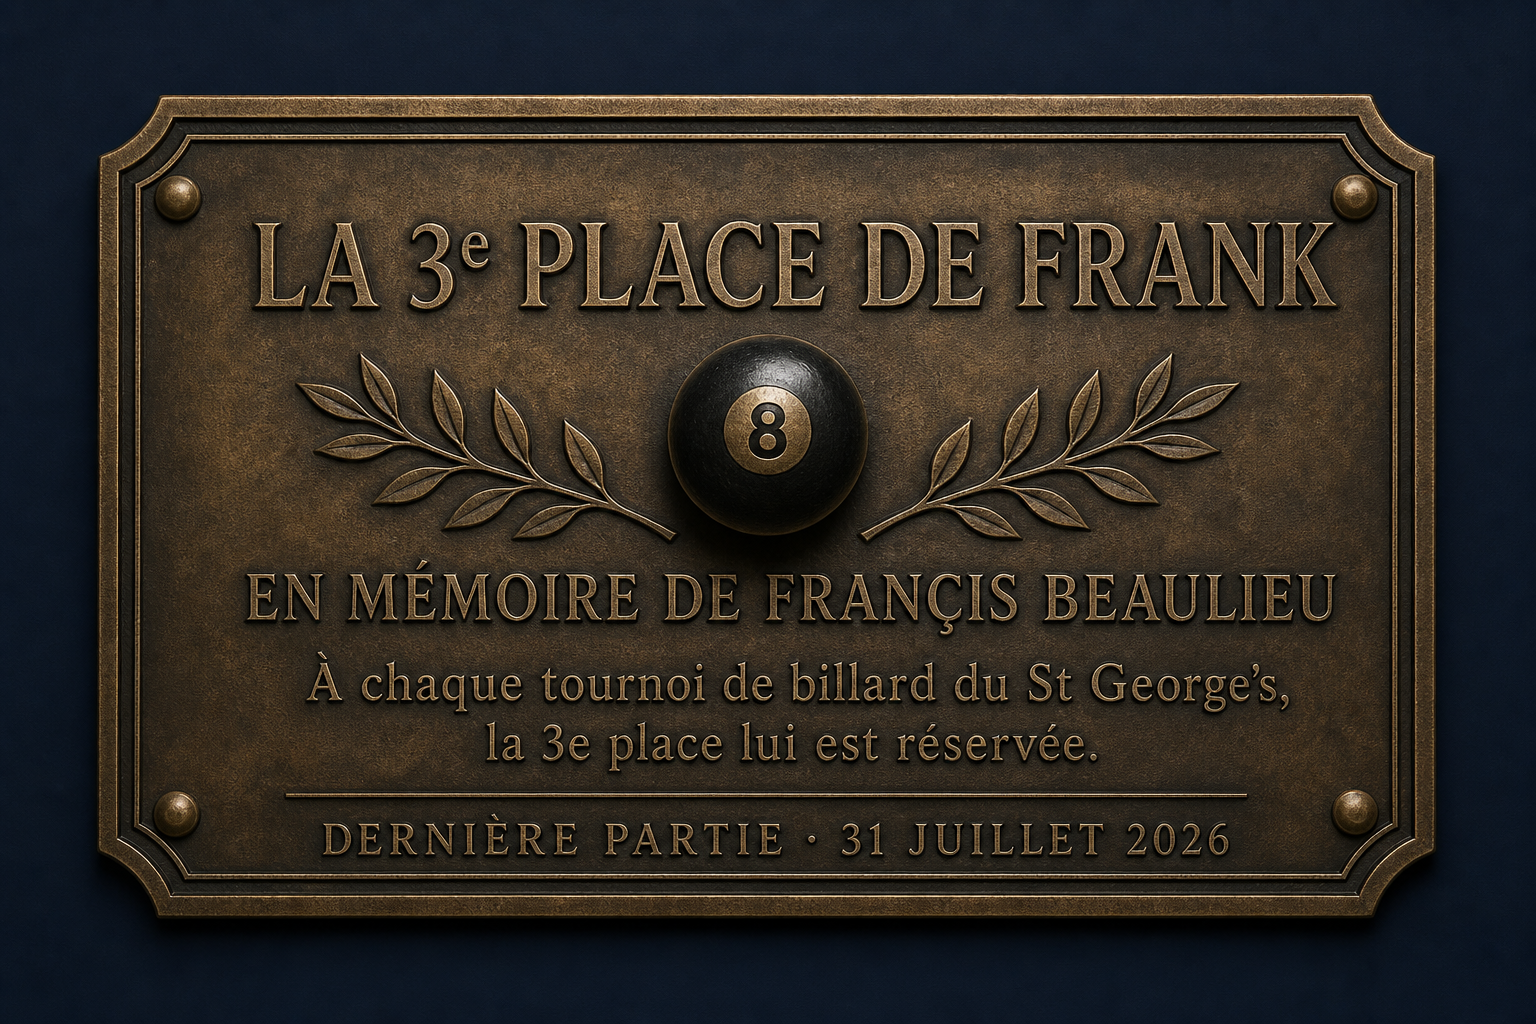
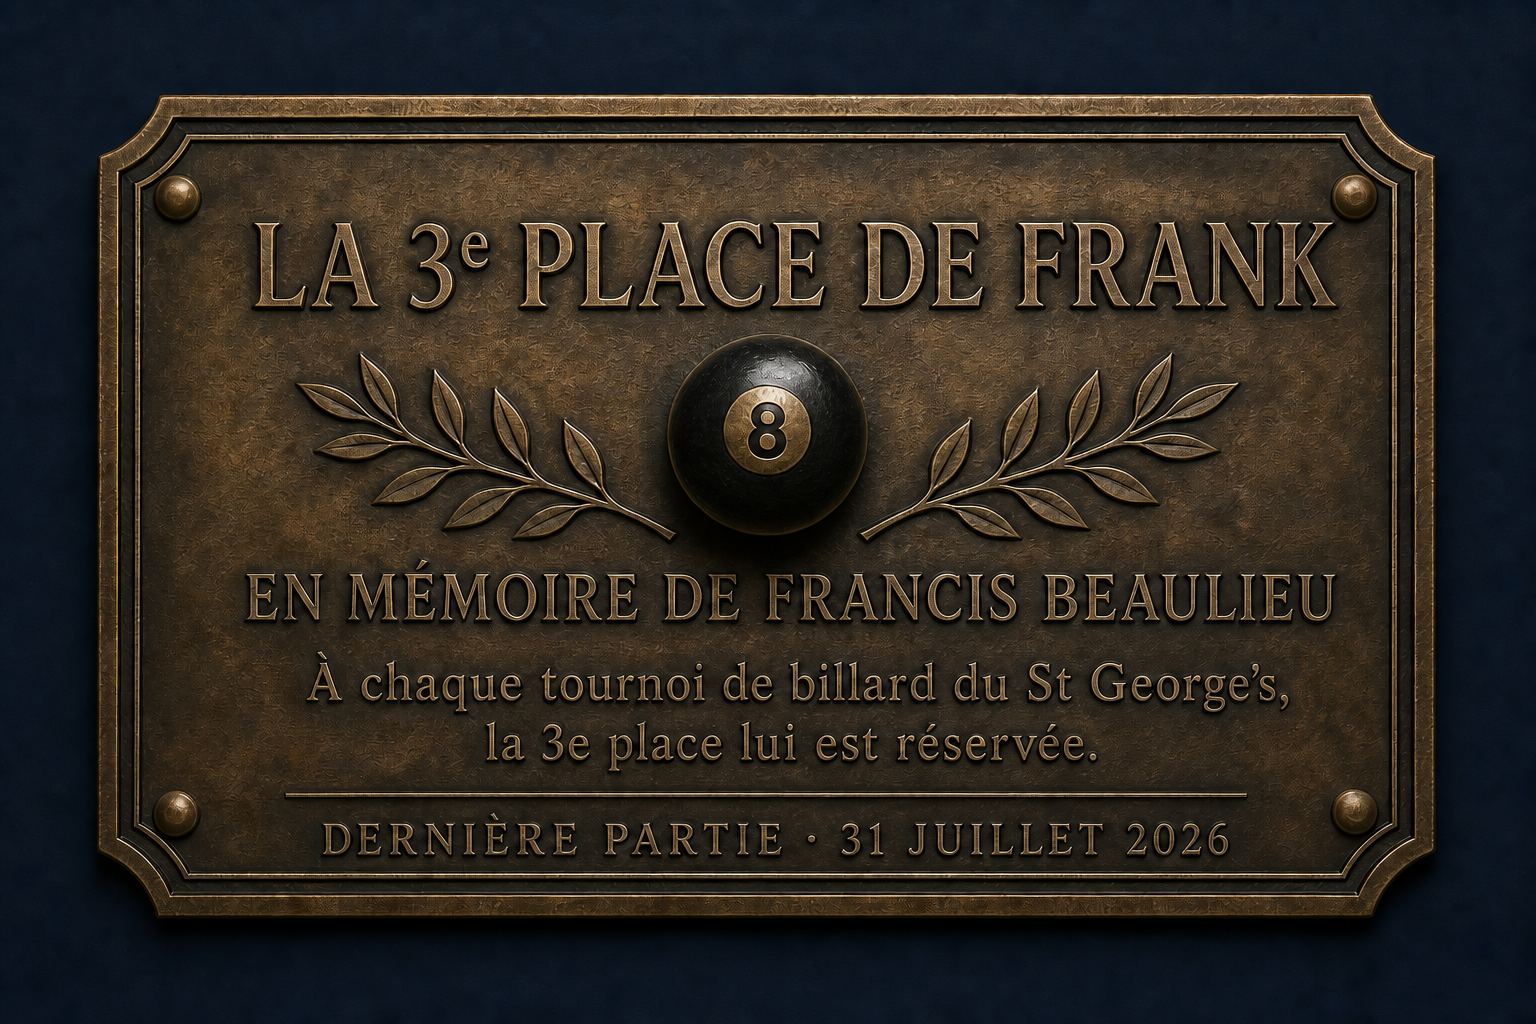
Promote Salle Point G events

diff --git a/index.html b/index.html
@@ -14,6 +14,7 @@
     <link rel="stylesheet" href="styles.css" />
     <link rel="stylesheet" href="photo.css" />
     <link rel="stylesheet" href="gallery.css" />
+    <link rel="stylesheet" href="event-popup.css" />
   </head>
   <body>
     <a class="skip-link" href="#contenu">Aller au contenu</a>
@@ -24,7 +25,7 @@
         </a>
         <button class="nav-toggle" type="button" aria-expanded="false" aria-controls="nav-links"><span></span><span></span><span></span><span class="sr-only">Ouvrir le menu</span></button>
         <div class="nav-links" id="nav-links">
-          <a href="#histoire">À propos</a><a href="carte.html">Carte</a><a href="#evenements">Événement</a><a href="salle-point-g.html">Location de salle</a><a href="#contact">Contact</a>
+          <a href="#histoire">À propos</a><a href="carte.html">Carte</a><a href="#evenements">Événement</a><a href="https://sallepointg.ca">Salle Point G – Location</a><a href="#contact">Contact</a>
           <a class="button button-small" href="https://www.google.com/maps/search/?api=1&query=97+rue+Saint-Georges,+Saint-Jérôme,+QC" target="_blank" rel="noreferrer">Nous trouver</a>
         </div>
       </nav>
@@ -59,15 +60,18 @@
         </div>
       </section>
 
-      <section class="events section" id="evenements"><div class="container"><div class="section-heading"><div><p class="eyebrow">Toute la semaine</p><h2>Vos soirées,<br /><em>notre terrain de jeu.</em></h2></div><p>Des rendez-vous pour chanter, rire, jouer et se retrouver. Consultez nos réseaux sociaux pour les détails et les thèmes de la semaine.</p></div><div class="program-grid"><div class="program-block"><p class="eyebrow">Bar principal</p><div class="event-list"><article><p>Lundi</p><h3>Lundi de la fût</h3><span>Spéciale sur la bière en fût</span></article><article><p>Mardi</p><h3>Hot-dog à 1 $</h3><span>Un classique du mardi</span></article><article><p>Mercredi</p><h3>Karaoké avec Luc Collerette</h3><span>Dès 13 h : tournoi de golf-billard</span></article><article><p>Jeudi</p><h3>Ladies Night</h3><span>Drinks en promotion, différents chaque semaine</span></article><article><p>Vendredi</p><h3>Party à thèmes</h3><span>Tournoi de billard dès 12 h 30</span></article><article><p>Samedi</p><h3>Karaoké</h3><span>Tous les samedis</span></article></div></div><div class="program-block point-g"><p class="eyebrow">Événements · Salle Point G</p><div class="event-list"><article><p>Tous les mardis</p><h3>Danse en ligne country</h3><span>Au deuxième étage, à la Salle Point G</span></article><article><p>Un jeudi sur deux</p><h3>Soirée d’impro</h3><span>Une soirée de rires et d’improvisation</span></article><article><p>Un jeudi sur deux</p><h3>Show d’humour Point G</h3><span>Animé par Will Murphy · de retour en septembre</span></article></div><a class="text-link dark" href="salle-point-g.html">Découvrir la Salle Point G <span>→</span></a></div></div><div class="social-links"><a class="button" href="https://www.facebook.com/p/St-Georges-taverne-urbaine-61566446579908/" target="_blank" rel="noreferrer">Facebook</a><a class="button button-outline dark-outline" href="https://www.instagram.com/stgeorges_taverne_urbaine/" target="_blank" rel="noreferrer">Instagram</a></div></div></section>
+      <section class="events section" id="evenements"><div class="container"><div class="section-heading"><div><p class="eyebrow">Toute la semaine</p><h2>Vos soirées,<br /><em>notre terrain de jeu.</em></h2></div><p>Des rendez-vous pour chanter, rire, jouer et se retrouver. Consultez nos réseaux sociaux pour les détails et les thèmes de la semaine.</p></div><div class="program-grid"><div class="program-block"><p class="eyebrow">Bar principal</p><div class="event-list"><article><p>Lundi</p><h3>Lundi de la fût</h3><span>Spéciale sur la bière en fût</span></article><article><p>Mardi</p><h3>Hot-dog à 1 $</h3><span>Un classique du mardi</span></article><article><p>Mercredi</p><h3>Karaoké animé par Luc Collerette</h3><span>Nord Musique · Dès 13 h : tournoi de golf-billard</span></article><article><p>Jeudi</p><h3>Ladies Night</h3><span>Drinks en promotion, différents chaque semaine</span></article><article><p>Vendredi</p><h3>Party à thèmes</h3><span>Tournoi de billard dès 12 h 30</span></article><article><p>Samedi</p><h3>Karaoké libre-service</h3><span>Tous les samedis</span></article></div></div><div class="program-block point-g"><p class="eyebrow">Événements · Salle Point G</p><div class="event-list"><article><p>Tous les mardis</p><h3>Danse en ligne country</h3><span>Au deuxième étage, à la Salle Point G</span></article><article><p>Un jeudi sur deux</p><h3>Soirée d’impro</h3><span>Une soirée de rires et d’improvisation</span></article><article><p>1er octobre 2026</p><h3>Soirée humour Point G</h3><span>Animée par Will Murphy · de retour le 1er octobre</span><a class="event-ticket-link" href="https://sallepointg.ca/evenements/soireehumourpointg011026">Réserver mes billets →</a></article></div><a class="text-link dark" href="https://sallepointg.ca">Découvrir la Salle Point G <span>→</span></a></div></div><div class="social-links"><a class="button" href="https://www.facebook.com/p/St-Georges-taverne-urbaine-61566446579908/" target="_blank" rel="noreferrer">Facebook</a><a class="button button-outline dark-outline" href="https://www.instagram.com/stgeorges_taverne_urbaine/" target="_blank" rel="noreferrer">Instagram</a></div></div></section>
 
-      <section class="features" id="billard"><div class="feature feature-billiard"><div><p class="eyebrow">Jouer</p><h2>Une partie?<br /><em>On vous attend.</em></h2><p>Billard, jeux et une ambiance sans prétention : l’endroit parfait pour laisser le temps filer.</p><p class="feature-detail">Mercredi · Golf-billard à 13 h<br />Vendredi · Tournoi de billard à 12 h 30</p></div></div><div class="feature feature-room" id="location-salle"><div><p class="eyebrow">Au 2e étage · Salle Point G</p><h2>Votre monde,<br /><em>votre soirée.</em></h2><p>Notre Salle Point G est une salle privée pouvant accueillir jusqu’à 70 personnes, parfaite pour vos événements corporatifs ou festifs.</p><p>Profitez de 3 écrans de 65”, d’un système de son professionnel, d’un service de bar complet et de notre chef propriétaire, qui concoctera un menu sur mesure selon vos goûts.</p><a class="text-link" href="salle-point-g.html">Découvrir la Salle Point G <span>→</span></a></div></div></section>
+      <section class="features" id="billard"><div class="feature feature-billiard"><div><p class="eyebrow">Jouer</p><h2>Une partie?<br /><em>On vous attend.</em></h2><p>Billard, jeux et une ambiance sans prétention : l’endroit parfait pour laisser le temps filer.</p><p class="feature-detail">Mercredi · Golf-billard à 13 h<br />Vendredi · Tournoi de billard à 12 h 30</p></div></div><div class="feature feature-room" id="location-salle"><div><p class="eyebrow">Au 2e étage · Salle Point G</p><h2>Votre monde,<br /><em>votre soirée.</em></h2><p>Notre Salle Point G est une salle privée pouvant accueillir jusqu’à 70 personnes, parfaite pour vos événements corporatifs ou festifs.</p><p>Profitez de 3 écrans de 65”, d’un système de son professionnel, d’un service de bar complet et de notre chef propriétaire, qui concoctera un menu sur mesure selon vos goûts.</p><a class="text-link" href="https://sallepointg.ca">Découvrir la Salle Point G <span>→</span></a></div></div></section>
 
       <section class="gallery section" id="galerie"><div class="container"><div class="section-heading"><div><p class="eyebrow">L’ambiance St George's</p><h2>Le goût d’y être.</h2></div><p>Le meilleur reste à venir découvrir en personne.</p></div><div class="gallery-grid"><figure class="gallery-card tall"><img src="assets/ambiance-decor.jpg" alt="Décor et miroir du St George's" /><figcaption>Le décor</figcaption></figure><figure class="gallery-card food"><img src="assets/ambiance-billard.jpg" alt="Table de billard du St George's" /><figcaption>Le billard</figcaption></figure><figure class="gallery-card friends"><img src="assets/ambiance-biere.jpg" alt="Bière servie au St George's" /><figcaption>À votre santé</figcaption></figure></div></div></section>
 
-      <section class="contact section" id="contact"><div class="container"><div class="contact-grid"><div><p class="eyebrow">Passez nous voir</p><h2>À bientôt<br /><em>au St George's.</em></h2><p class="contact-note">Ouvert 7 jours sur 7, de 11 h à 3 h. La cuisine régulière sera de retour sous peu.</p><div class="contact-details"><div><h3>Nous joindre</h3><a href="tel:+14504366446">450 436-6446</a><a href="mailto:info@stgeorgestaverne.ca">info@stgeorgestaverne.ca</a></div><div><h3>Adresse</h3><p>97, rue Saint-Georges<br />Saint-Jérôme, Québec</p></div></div><div class="social-links"><a class="button button-light" href="https://www.google.com/maps/search/?api=1&query=97+rue+Saint-Georges,+Saint-Jérôme,+QC" target="_blank" rel="noreferrer">Voir sur Google Maps</a><a class="text-link" href="https://g.page/r/CQ06RSkcrEW6EAI/review" target="_blank" rel="noreferrer">Laisser un avis Google <span>↗</span></a></div><figure class="frank-plaque" style="width:min(240px,70vw);margin:34px 0 0"><a style="display:block" href="https://www.facebook.com/share/p/198yFSubGu/" target="_blank" rel="noreferrer" aria-label="Lire l'hommage à Françis Beaulieu sur Facebook"><img style="display:block;max-width:100%;height:auto" src="assets/plaque-francis-beaulieu.png" alt="Plaque commémorative : La 3e place de Frank, en mémoire de Françis Beaulieu" /></a><figcaption>En mémoire de Françis Beaulieu</figcaption></figure></div><div class="forms"><form class="contact-form" action="https://formsubmit.co/info@stgeorgestaverne.ca" method="POST"><input type="hidden" name="_subject" value="Message depuis le site St George's" /><input type="hidden" name="_template" value="table" /><input type="hidden" name="_captcha" value="true" /><h3>Contacter le St George's</h3><label>Nom<input name="Nom" required /></label><label>Courriel<input name="Courriel" type="email" required /></label><label>Message<textarea name="Message" rows="4" required></textarea></label><button class="button" type="submit">Envoyer</button></form><form class="contact-form" id="reservation" action="https://formsubmit.co/reservation@stgeorgestaverne.ca" method="POST"><input type="hidden" name="_subject" value="Demande de réservation — Salle Point G" /><input type="hidden" name="_template" value="table" /><input type="hidden" name="_captcha" value="true" /><h3>Réserver la Salle Point G</h3><label>Nom<input name="Nom" required /></label><label>Courriel<input name="Courriel" type="email" required /></label><label>Date souhaitée<input name="Date souhaitée" type="date" /></label><label>Votre événement<textarea name="Détails de l’événement" rows="3" required></textarea></label><button class="button" type="submit">Demander une réservation</button></form></div></div></div></section>
+      <section class="contact section" id="contact"><div class="container"><div class="contact-grid"><div><p class="eyebrow">Passez nous voir</p><h2>À bientôt<br /><em>au St George's.</em></h2><p class="contact-note">Ouvert 7 jours sur 7, de 11 h à 3 h. La cuisine régulière sera de retour sous peu.</p><div class="contact-details"><div><h3>Nous joindre</h3><a href="tel:+14504366446">450 436-6446</a><a href="mailto:info@stgeorgestaverne.ca">info@stgeorgestaverne.ca</a></div><div><h3>Adresse</h3><p>97, rue Saint-Georges<br />Saint-Jérôme, Québec</p></div></div><div class="social-links"><a class="button button-light" href="https://www.google.com/maps/search/?api=1&query=97+rue+Saint-Georges,+Saint-Jérôme,+QC" target="_blank" rel="noreferrer">Voir sur Google Maps</a><a class="text-link" href="https://g.page/r/CQ06RSkcrEW6EAI/review" target="_blank" rel="noreferrer">Laisser un avis Google <span>↗</span></a></div><figure class="frank-plaque" style="width:min(240px,70vw);margin:34px 0 0"><a style="display:block" href="https://www.facebook.com/share/p/198yFSubGu/" target="_blank" rel="noreferrer" aria-label="Lire l'hommage à Francis Beaulieu sur Facebook"><img style="display:block;max-width:100%;height:auto" src="assets/plaque-francis-beaulieu.png" alt="Plaque commémorative : La 3e place de Frank, en mémoire de Francis Beaulieu" /></a><figcaption>En mémoire de Francis Beaulieu</figcaption></figure></div><div class="forms"><form class="contact-form" action="https://formsubmit.co/info@stgeorgestaverne.ca" method="POST"><input type="hidden" name="_subject" value="Message depuis le site St George's" /><input type="hidden" name="_template" value="table" /><input type="hidden" name="_captcha" value="true" /><h3>Contacter le St George's</h3><label>Nom<input name="Nom" required /></label><label>Courriel<input name="Courriel" type="email" required /></label><label>Message<textarea name="Message" rows="4" required></textarea></label><button class="button" type="submit">Envoyer</button></form><form class="contact-form" id="reservation" action="https://formsubmit.co/reservation@stgeorgestaverne.ca" method="POST"><input type="hidden" name="_subject" value="Demande de réservation — Salle Point G" /><input type="hidden" name="_template" value="table" /><input type="hidden" name="_captcha" value="true" /><h3>Réserver la Salle Point G</h3><label>Nom<input name="Nom" required /></label><label>Courriel<input name="Courriel" type="email" required /></label><label>Date souhaitée<input name="Date souhaitée" type="date" /></label><label>Votre événement<textarea name="Détails de l’événement" rows="3" required></textarea></label><button class="button" type="submit">Demander une réservation</button></form></div></div></div></section>
     </main>
     <footer class="footer"><div class="container"><a class="brand" href="#top"><img class="brand-logo" src="assets/logo-long.png" alt="St George's Taverne Urbaine" /></a><p>© <span id="year"></span> St George's Taverne. Tous droits réservés.</p><a href="#top">Retour en haut ↑</a></div></footer>
+    <dialog class="stg-event-popup" id="stg-event-popup" aria-labelledby="stg-popup-title"><button class="stg-popup-close" type="button" aria-label="Fermer la promotion">×</button><div id="stg-popup-content"></div></dialog>
+    <script src="https://www.eventbrite.com/static/widgets/eb_widgets.js" defer></script>
+    <script src="event-popup.js" defer></script>
     <script src="script.js"></script>
   </body>
 </html>

diff --git a/event-popup.js b/event-popup.js
@@ -1,0 +1,18 @@
+'use strict';
+const stgPopup=document.querySelector('#stg-event-popup');
+const stgPopupContent=document.querySelector('#stg-popup-content');
+const stgEscape=value=>String(value).replace(/[&<>'"]/g,character=>({'&':'&amp;','<':'&lt;','>':'&gt;',"'":'&#39;','"':'&quot;'})[character]);
+const stgDate=value=>new Intl.DateTimeFormat('fr-CA',{dateStyle:'long',timeStyle:'short'}).format(new Date(value));
+function closeStgPopup(){stgPopup.close();sessionStorage.setItem('stg-humour-popup-closed','1');}
+document.querySelector('.stg-popup-close').addEventListener('click',closeStgPopup);
+stgPopup.addEventListener('click',event=>{if(event.target===stgPopup)closeStgPopup();});
+stgPopup.addEventListener('cancel',event=>{event.preventDefault();closeStgPopup();});
+if(!sessionStorage.getItem('stg-humour-popup-closed')){
+  const event={title:'Soirée humour Point G',summary:'Une soirée pleine de rires animée par Will Murphy et ses invités.',date:'2026-10-01T20:00:00-04:00',eventbriteId:'1998914026663'};
+  const href='https://sallepointg.ca/evenements/soireehumourpointg011026';
+  stgPopupContent.innerHTML=`<div class="stg-popup-grid"><img class="stg-popup-image" src="assets/jeudis-humour-popup.png" alt="Affiche des Jeudis humour à la Salle Point G"/><div class="stg-popup-copy"><p class="eyebrow">À l’affiche · ${stgEscape(stgDate(event.date))}</p><h2 id="stg-popup-title">${stgEscape(event.title)}</h2><p>${stgEscape(event.summary)}</p><div class="stg-popup-actions"><button class="button" id="stg-eventbrite-trigger" type="button">Acheter des billets</button><a class="stg-popup-link" href="${href}">Voir la fiche →</a></div></div></div>`;
+  stgPopup.showModal();
+  document.querySelector('#stg-eventbrite-trigger').addEventListener('click',closeStgPopup);
+  const initialize=()=>{if(!window.EBWidgets)return setTimeout(initialize,100);window.EBWidgets.createWidget({widgetType:'checkout',eventId:event.eventbriteId,modal:true,modalTriggerElementId:'stg-eventbrite-trigger',onOrderComplete:()=>{}});};
+  initialize();
+}

diff --git a/event-popup.css b/event-popup.css
@@ -1,0 +1,13 @@
+.event-ticket-link{display:block;margin-top:9px;color:var(--wood);font-size:11px;font-weight:600;text-transform:uppercase;letter-spacing:1px;text-decoration:none}
+.stg-event-popup{width:min(900px,calc(100% - 32px));max-height:calc(100svh - 32px);padding:0;border:0;background:#fff;color:var(--blue);box-shadow:0 25px 80px rgba(0,0,0,.45);overflow:auto}
+.stg-event-popup::backdrop{background:rgba(18,14,12,.8);backdrop-filter:blur(3px)}
+.stg-popup-grid{display:grid;grid-template-columns:380px 1fr;height:min(540px,calc(100svh - 32px))}
+.stg-popup-image{width:100%;height:100%;object-fit:contain;background:#061b30}
+.stg-popup-copy{padding:54px 42px 38px;display:flex;flex-direction:column;justify-content:center}
+.stg-popup-copy h2{font-size:clamp(34px,5vw,50px);margin:0 0 16px}
+.stg-popup-copy>p:not(.eyebrow){margin:0 0 24px}
+.stg-popup-actions{display:flex;align-items:center;flex-wrap:wrap;gap:18px}
+.stg-popup-link{color:var(--wood);font-size:11px;font-weight:600;text-transform:uppercase;letter-spacing:1px}
+.stg-popup-close{position:absolute;z-index:2;top:12px;right:14px;width:38px;height:38px;border:0;border-radius:50%;background:rgba(26,38,50,.85);color:#fff;font-size:25px;line-height:1;cursor:pointer}
+body:has(.stg-event-popup[open]){overflow:hidden}
+@media(max-width:700px){.stg-popup-grid{grid-template-columns:1fr;height:auto}.stg-popup-image{height:auto;max-height:52svh;aspect-ratio:1054/1492}.stg-popup-copy{padding:34px 24px 30px}.stg-popup-copy h2{font-size:34px}}
